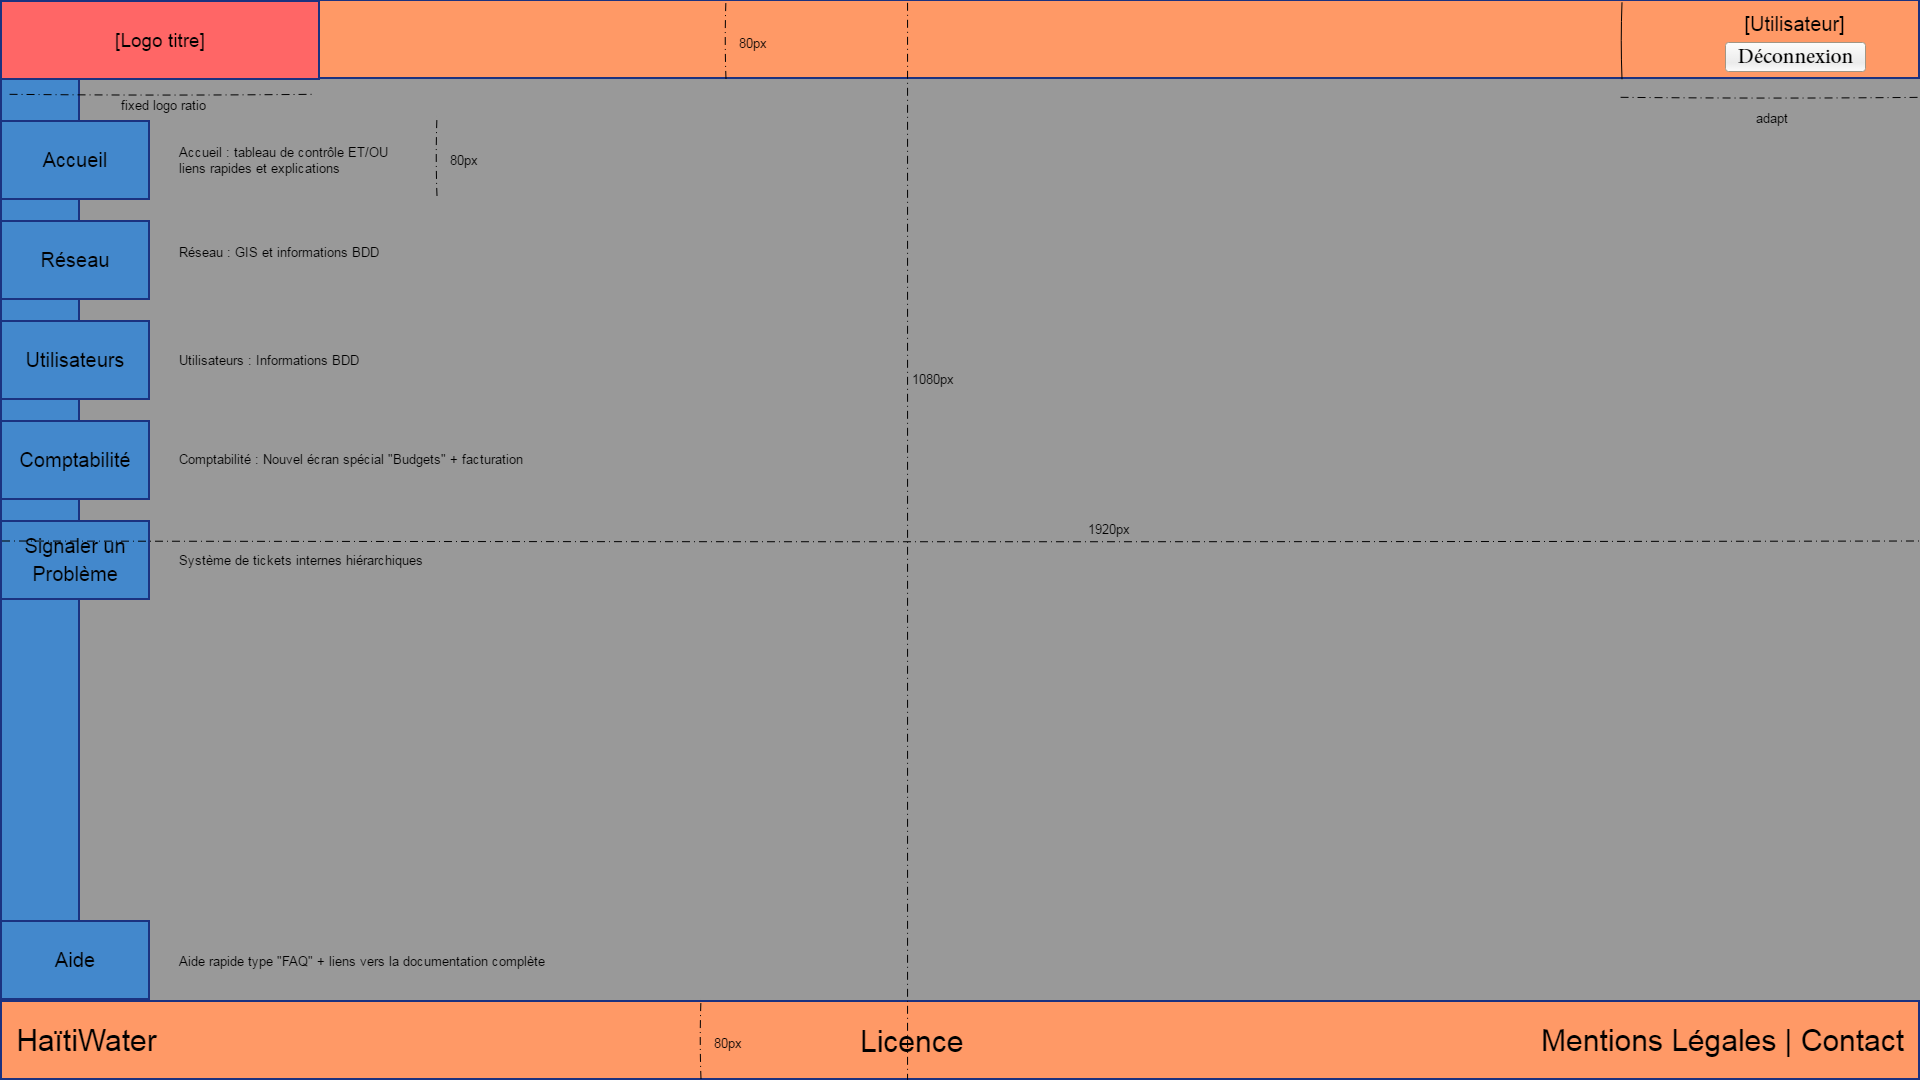
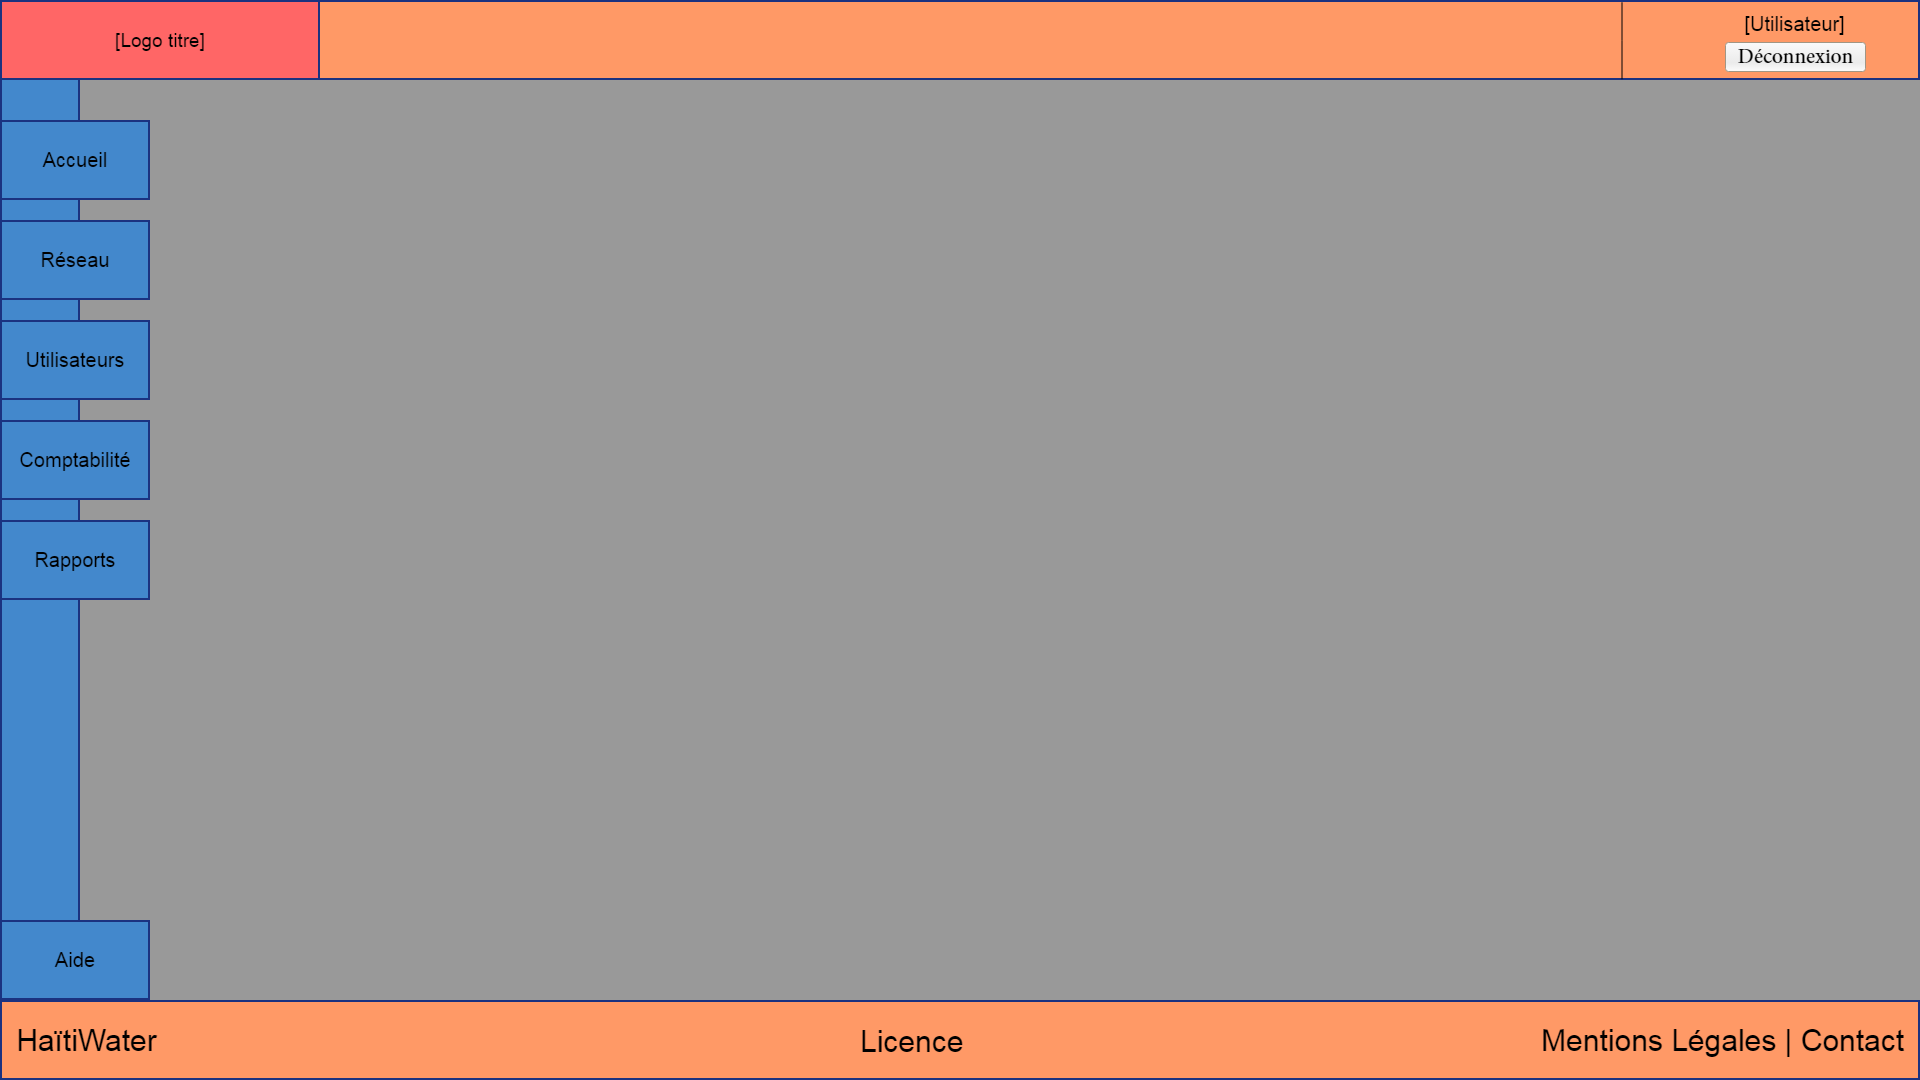
GIS and Network + detailed template

diff --git a/documents/design/wireframes/hi-fi/output/index.html b/documents/design/wireframes/hi-fi/output/index.html
@@ -1,2 +1,2 @@
 <!DOCTYPE html><html xmlns="http://www.w3.org/1999/xhtml" xmlns:p="http://www.evolus.vn/Namespace/Pencil" xmlns:html="http://www.w3.org/1999/xhtml" lang="en"><head><meta http-equiv="Content-Type" content="text/html; charset=UTF-8" />
-<meta charset="utf-8" /><meta http-equiv="X-UA-Compatible" content="IE=edge,chrome=1" /><title>wireframes_hifi_pencil</title><meta name="description" content="" /><meta name="viewport" content="width=device-width, initial-scale=1" /><meta name="robots" content="noindex,nofollow,noarchive" /><meta name="googlebot" content="noodp,nosnippet,noarchive,noindex,nofollow" /><link rel="stylesheet" href="static/css/bootstrap.min.css" /><link rel="stylesheet" href="static/css/bootstrap-theme.min.css" /><link rel="stylesheet" href="static/css/main.css" /><link rel="apple-touch-icon" sizes="57x57" href="static/icons/apple-touch-icon-57x57.png" /><link rel="apple-touch-icon" sizes="114x114" href="static/icons/apple-touch-icon-114x114.png" /><link rel="apple-touch-icon" sizes="72x72" href="static/icons/apple-touch-icon-72x72.png" /><link rel="apple-touch-icon" sizes="60x60" href="static/icons/apple-touch-icon-60x60.png" /><link rel="apple-touch-icon" sizes="120x120" href="static/icons/apple-touch-icon-120x120.png" /><link rel="apple-touch-icon" sizes="76x76" href="static/icons/apple-touch-icon-76x76.png" /><link rel="shortcut icon" href="static/icons/favicon.ico" /><link rel="icon" type="image/png" href="static/icons/favicon-96x96.png" sizes="96x96" /><link rel="icon" type="image/png" href="static/icons/favicon-16x16.png" sizes="16x16" /><link rel="icon" type="image/png" href="static/icons/favicon-32x32.png" sizes="32x32" /><meta name="msapplication-TileColor" content="#da532c" /><meta name="msapplication-config" content="static/icons/browserconfig.xml" /></head><body data-spy="scroll" data-target="#affix-nav"><div id="navbar" class="hidden-sm hidden-xs"><div id="affix-nav"><ul class="nav nav-pills nav-stacked" data-spy="affix" data-offset-top="0"><li class="active"><a href="#login" title="Go to page 'Login'">Login</a></li><li class="active"><a href="#template" title="Go to page 'Template'">Template</a></li></ul></div></div><div class="container-full" id="images"><div class="image-header"><h2 id="login">Login</h2></div><img src="pages/login.png" width="1920" height="1080" usemap="#map_login" class="img-responsive" /><hr /><map name="map_login"></map><div class="image-header"><h2 id="template">Template</h2></div><img src="pages/template.png" width="1920" height="1080" usemap="#map_template" class="img-responsive" /><hr /><map name="map_template"><area shape="rect" coords="1725.5,41.25,1865.5,73.25" href="#login" title="Go to page 'Login'" /></map><footer><small><p><span class="file-name">wireframes_hifi_pencil</span><br /><br />Thu Sep 27 2018 18:13:10 GMT+0200 (Romance Daylight Time)</p></small></footer></div><script src="static/js/jquery-1.11.1.min.js"></script><script src="static/js/bootstrap.min.js"></script></body></html>
+<meta charset="utf-8" /><meta http-equiv="X-UA-Compatible" content="IE=edge,chrome=1" /><title>wireframes_hifi_pencil</title><meta name="description" content="" /><meta name="viewport" content="width=device-width, initial-scale=1" /><meta name="robots" content="noindex,nofollow,noarchive" /><meta name="googlebot" content="noodp,nosnippet,noarchive,noindex,nofollow" /><link rel="stylesheet" href="static/css/bootstrap.min.css" /><link rel="stylesheet" href="static/css/bootstrap-theme.min.css" /><link rel="stylesheet" href="static/css/main.css" /><link rel="apple-touch-icon" sizes="57x57" href="static/icons/apple-touch-icon-57x57.png" /><link rel="apple-touch-icon" sizes="114x114" href="static/icons/apple-touch-icon-114x114.png" /><link rel="apple-touch-icon" sizes="72x72" href="static/icons/apple-touch-icon-72x72.png" /><link rel="apple-touch-icon" sizes="60x60" href="static/icons/apple-touch-icon-60x60.png" /><link rel="apple-touch-icon" sizes="120x120" href="static/icons/apple-touch-icon-120x120.png" /><link rel="apple-touch-icon" sizes="76x76" href="static/icons/apple-touch-icon-76x76.png" /><link rel="shortcut icon" href="static/icons/favicon.ico" /><link rel="icon" type="image/png" href="static/icons/favicon-96x96.png" sizes="96x96" /><link rel="icon" type="image/png" href="static/icons/favicon-16x16.png" sizes="16x16" /><link rel="icon" type="image/png" href="static/icons/favicon-32x32.png" sizes="32x32" /><meta name="msapplication-TileColor" content="#da532c" /><meta name="msapplication-config" content="static/icons/browserconfig.xml" /></head><body data-spy="scroll" data-target="#affix-nav"><div id="navbar" class="hidden-sm hidden-xs"><div id="affix-nav"><ul class="nav nav-pills nav-stacked" data-spy="affix" data-offset-top="0"><li class="active"><a href="#templatedimensions" title="Go to page 'Template-dimensions'">Template-dimensions</a></li><li class="active"><a href="#template" title="Go to page 'Template'">Template</a></li><li class="active"><a href="#login" title="Go to page 'Login'">Login</a></li><li class="active"><a href="#accueil" title="Go to page 'Accueil'">Accueil</a></li><li class="active"><a href="#rseau" title="Go to page 'Réseau'">Réseau</a></li><li class="active"><a href="#gis" title="Go to page 'GIS'">GIS</a></li></ul></div></div><div class="container-full" id="images"><div class="image-header"><h2 id="templatedimensions">Template-dimensions</h2></div><img src="pages/templatedimensions.png" width="1920" height="1080" usemap="#map_templatedimensions" class="img-responsive" /><hr /><map name="map_templatedimensions"><area shape="rect" coords="1725.5,41.25,1865.5,73.25" href="#login" title="Go to page 'Login'" /></map><div class="image-header"><h2 id="template">Template</h2></div><img src="pages/template.png" width="1920" height="1080" usemap="#map_template" class="img-responsive" /><hr /><map name="map_template"><area shape="rect" coords="1725.5,41.25,1865.5,73.25" href="#login" title="Go to page 'Login'" /></map><div class="image-header"><h2 id="login">Login</h2></div><img src="pages/login.png" width="1920" height="1080" usemap="#map_login" class="img-responsive" /><hr /><map name="map_login"></map><div class="image-header"><h2 id="accueil">Accueil</h2></div><img src="pages/accueil.png" width="1920" height="1080" usemap="#map_accueil" class="img-responsive" /><hr /><map name="map_accueil"><area shape="rect" coords="1725.5,41.25,1865.5,73.25" href="#login" title="Go to page 'Login'" /></map><div class="image-header"><h2 id="rseau">Réseau</h2></div><img src="pages/rseau.png" width="1920" height="1080" usemap="#map_rseau" class="img-responsive" /><hr /><map name="map_rseau"><area shape="rect" coords="1725.5,41.25,1865.5,73.25" href="#login" title="Go to page 'Login'" /></map><div class="image-header"><h2 id="gis">GIS</h2></div><img src="pages/gis.png" width="1920" height="1080" usemap="#map_gis" class="img-responsive" /><hr /><map name="map_gis"><area shape="rect" coords="1725.5,41.25,1865.5,73.25" href="#login" title="Go to page 'Login'" /></map><footer><small><p><span class="file-name">wireframes_hifi_pencil</span><br /><br />Fri Sep 28 2018 02:58:54 GMT+0200 (Romance Daylight Time)</p></small></footer></div><script src="static/js/jquery-1.11.1.min.js"></script><script src="static/js/bootstrap.min.js"></script></body></html>
